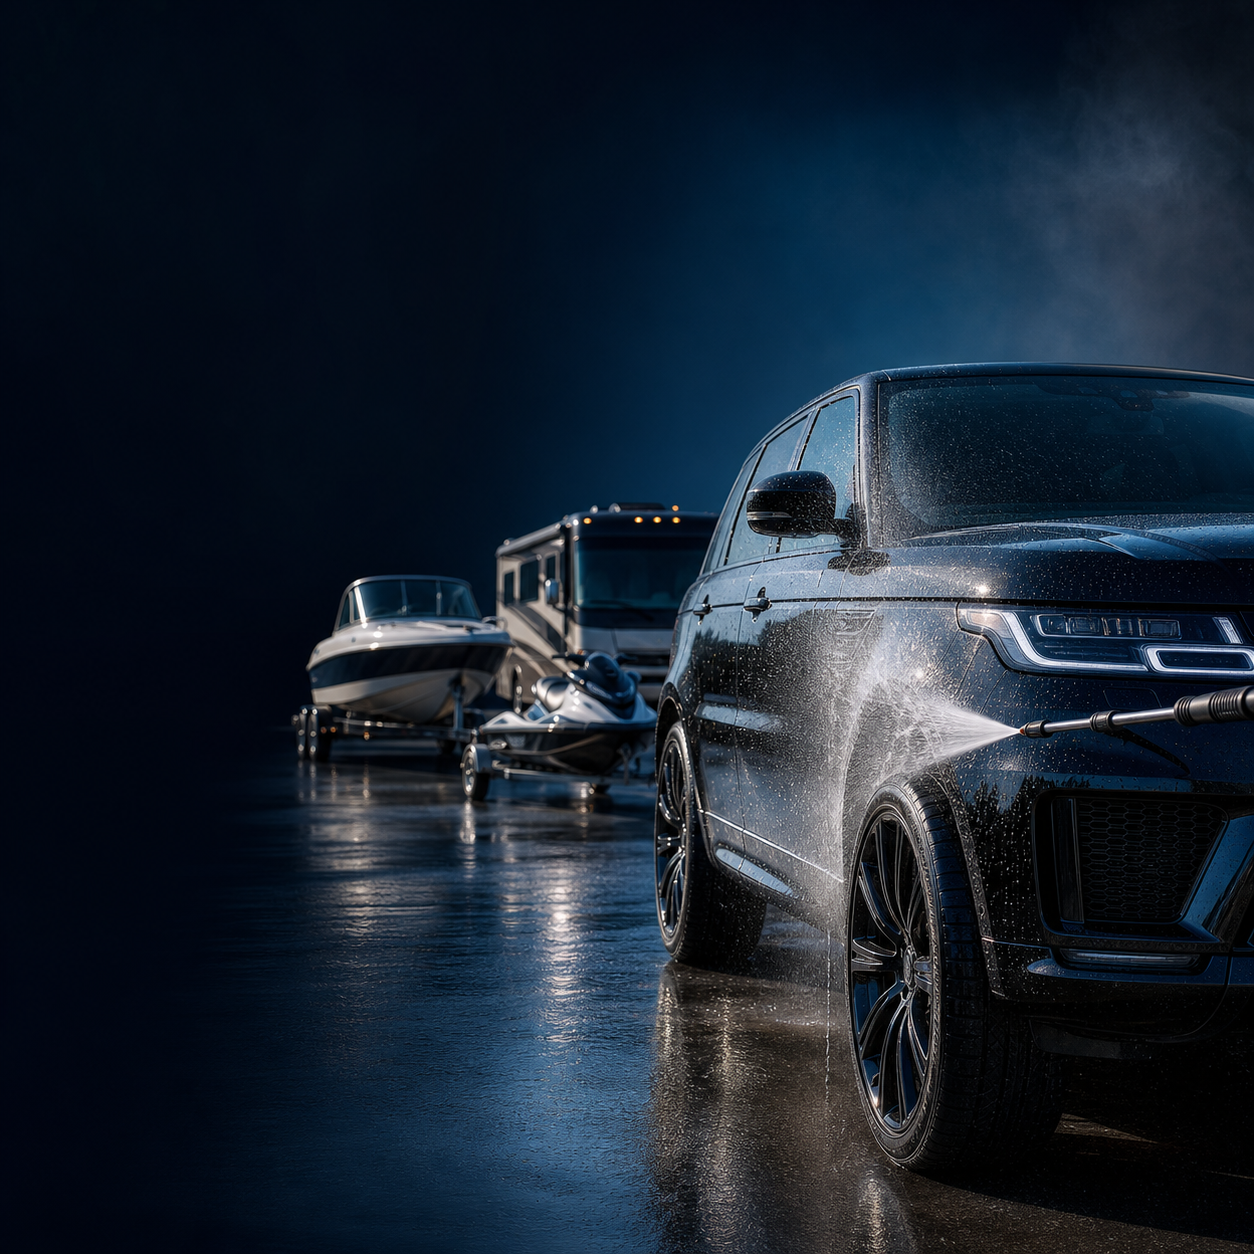
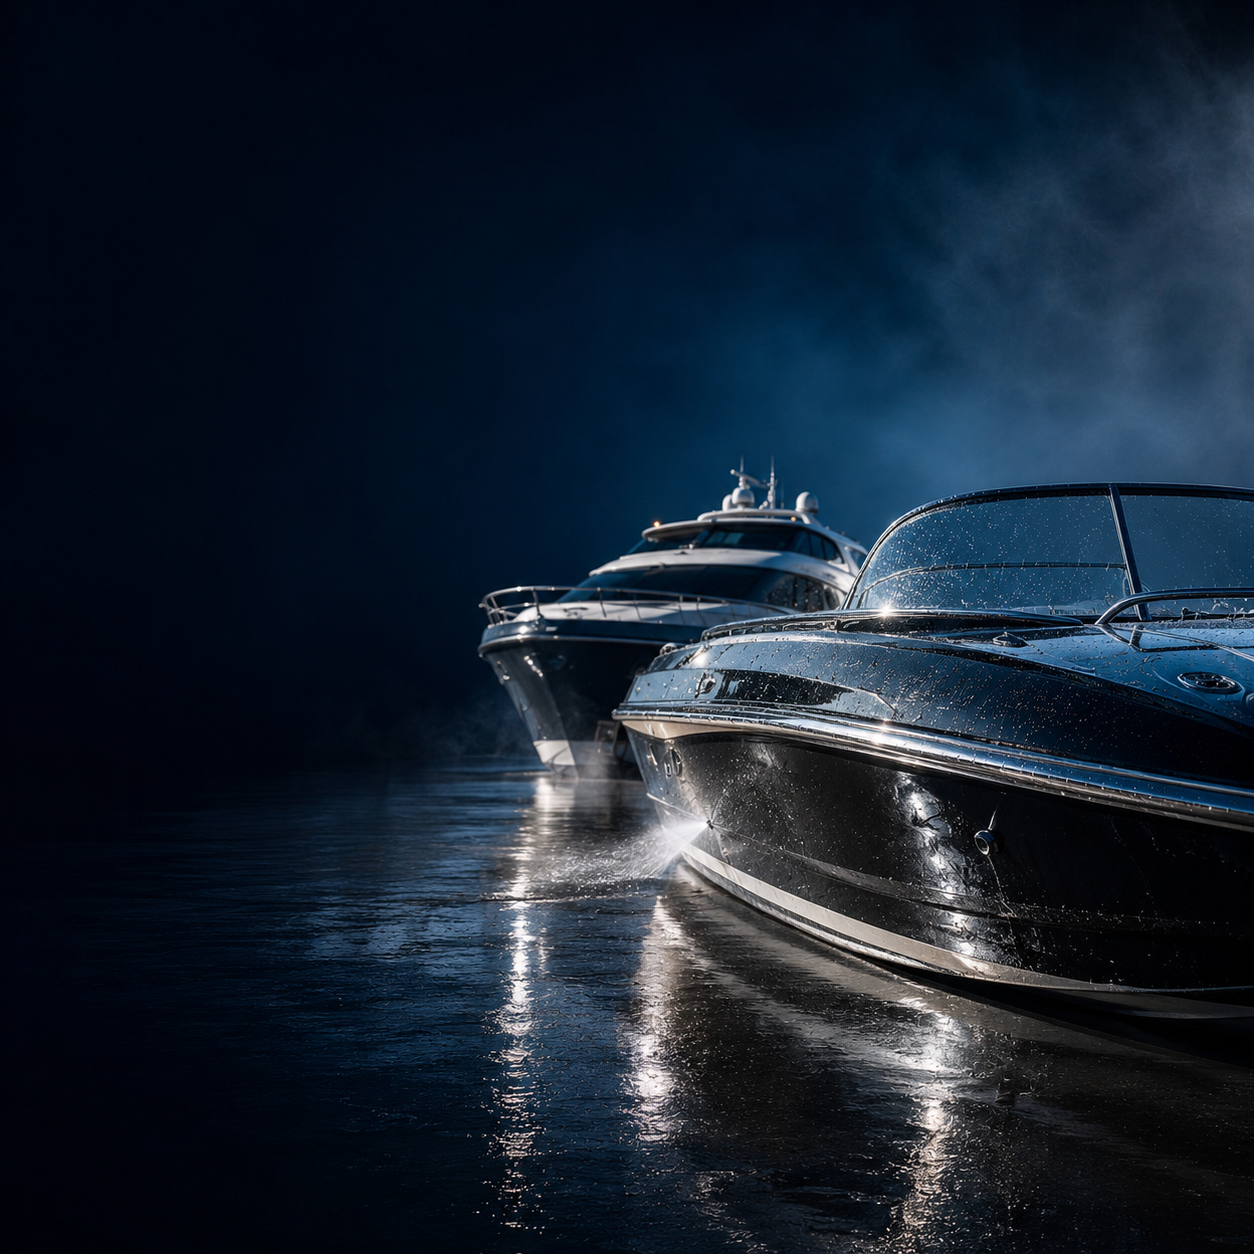
feat(booking): premium AI studio photos for all 5 category cards
Replace SVGs/old photos with brand-matched AI dark-studio shots:
Cars/Trucks, Boats, RVs/Trailers, Powersports, Fleet
CSS: brightness .82 on dark-studio images, full on hover.

diff --git a/index.html b/index.html
@@ -546,9 +546,9 @@ body{background:var(--bg0);color:var(--tx);font-family:var(--fb);font-size:15px;
 #bk-cat-grid .svc-from{padding-bottom:14px}
 /* Photo cards: real photos with dark cinematic overlay */
 .svc-ico-photo{display:block;width:100%;height:130px;position:relative;overflow:hidden;margin-bottom:0;font-size:0;flex-shrink:0}
-.svc-ico-photo img{width:100%;height:100%;object-fit:cover;display:block;filter:brightness(.55) saturate(1.45) contrast(1.12);transition:filter .55s ease,transform .55s ease;transform:scale(1.06);transform-origin:center 40%}
-.svc-card:hover .svc-ico-photo img{filter:brightness(.72) saturate(1.5) contrast(1.14);transform:scale(1)}
-.svc-ico-photo::after{content:'';position:absolute;inset:0;background:radial-gradient(ellipse 130% 90% at 58% 45%,rgba(40,100,230,.24) 0%,transparent 62%),linear-gradient(180deg,rgba(4,10,28,.5) 0%,rgba(4,10,28,.1) 55%,rgba(4,10,28,.6) 100%);z-index:1;pointer-events:none}
+.svc-ico-photo img{width:100%;height:100%;object-fit:cover;display:block;filter:brightness(.82) saturate(1.15) contrast(1.08);transition:filter .5s ease,transform .5s ease;transform:scale(1.04);transform-origin:center 50%}
+.svc-card:hover .svc-ico-photo img{filter:brightness(1) saturate(1.2) contrast(1.1);transform:scale(1)}
+.svc-ico-photo::after{content:'';position:absolute;inset:0;background:linear-gradient(180deg,rgba(4,10,28,.18) 0%,transparent 45%,rgba(4,10,28,.45) 100%);z-index:1;pointer-events:none}
 .svc-ico-photo .photo-label{position:absolute;bottom:0;left:0;right:0;z-index:2;display:none}
 
 /* STRIP */
@@ -2148,31 +2148,31 @@ footer{background:var(--bg1);border-top:1px solid rgba(255,255,255,.05);padding:
         </div>
         <div class="service-grid" id="bk-cat-grid" style="grid-template-columns:repeat(auto-fit,minmax(180px,1fr))">
           <div class="svc-card locked" id="bkcat-cars" onclick="selectCategory('cars')">
-            <span class="svc-ico-photo"><img src="/assets/vehicles/photos/luxury-car.jpg" alt="Cars & Trucks" loading="lazy" style="object-position:50% 35%;filter:brightness(.68) saturate(1.6) contrast(1.18)"></span>
+            <span class="svc-ico-photo"><img src="/assets/vehicles/photos/cars-trucks.png" alt="Cars & Trucks" loading="lazy" style="object-position:50% 58%"></span>
             <div class="svc-name" style="font-size:22px">Cars & Trucks</div>
             <div class="svc-desc" style="font-size:12px">Sedans · SUVs · Trucks · Vans</div>
             <div class="svc-from" id="bkfrom-cars" style="font-size:12px">From $175</div>
           </div>
           <div class="svc-card locked" id="bkcat-boats" onclick="selectCategory('boats')">
-            <span class="svc-ico-photo"><img src="/assets/vehicles/photos/boats.png" alt="Boats" loading="lazy" style="object-position:50% 42%;filter:brightness(.72) saturate(1.35) contrast(1.1)"></span>
+            <span class="svc-ico-photo"><img src="/assets/vehicles/photos/boats.png" alt="Boats" loading="lazy" style="object-position:50% 55%"></span>
             <div class="svc-name" style="font-size:22px">Boats</div>
             <div class="svc-desc" style="font-size:12px">All vessels · Priced by length</div>
             <div class="svc-from" id="bkfrom-boats" style="font-size:12px">From $199</div>
           </div>
           <div class="svc-card locked" id="bkcat-rvs" onclick="selectCategory('rvs')">
-            <span class="svc-ico-photo"><img src="/assets/vehicles/photos/rvs-trailers.jpg" alt="RVs & Trailers" loading="lazy" style="object-position:center 55%"></span>
+            <span class="svc-ico-photo"><img src="/assets/vehicles/photos/rvs-trailers.png" alt="RVs & Trailers" loading="lazy" style="object-position:50% 60%"></span>
             <div class="svc-name" style="font-size:22px">RVs & Trailers</div>
             <div class="svc-desc" style="font-size:12px">Trailers · 5th Wheels · Class A/C</div>
             <div class="svc-from" id="bkfrom-rvs" style="font-size:12px">From $349</div>
           </div>
           <div class="svc-card locked" id="bkcat-powersports" onclick="selectCategory('powersports')">
-            <span class="svc-ico-photo"><img src="/assets/vehicles/photos/powersports.jpg" alt="Powersports" loading="lazy" style="object-position:center 45%"></span>
+            <span class="svc-ico-photo"><img src="/assets/vehicles/photos/powersports.png" alt="Powersports" loading="lazy" style="object-position:50% 62%"></span>
             <div class="svc-name" style="font-size:22px">Powersports</div>
             <div class="svc-desc" style="font-size:12px">Motorcycle · ATV · UTV · Jet Ski</div>
             <div class="svc-from" id="bkfrom-powersports" style="font-size:12px">From $119</div>
           </div>
           <div class="svc-card locked" id="bkcat-fleet" onclick="selectCategory('fleet')">
-            <span class="svc-ico-photo"><img src="/assets/vehicles/photos/fleet.jpg" alt="Fleet Services" loading="lazy" style="object-position:28% 50%"></span>
+            <span class="svc-ico-photo"><img src="/assets/vehicles/photos/fleet.png" alt="Fleet Services" loading="lazy" style="object-position:50% 58%"></span>
             <div class="svc-name" style="font-size:22px">Fleet Services</div>
             <div class="svc-desc" style="font-size:12px">Cars · Vans · Trucks · Buses · Golf Carts · Boats/RVs</div>
             <div class="svc-from" id="bkfrom-fleet" style="font-size:12px">From $60/unit</div>
